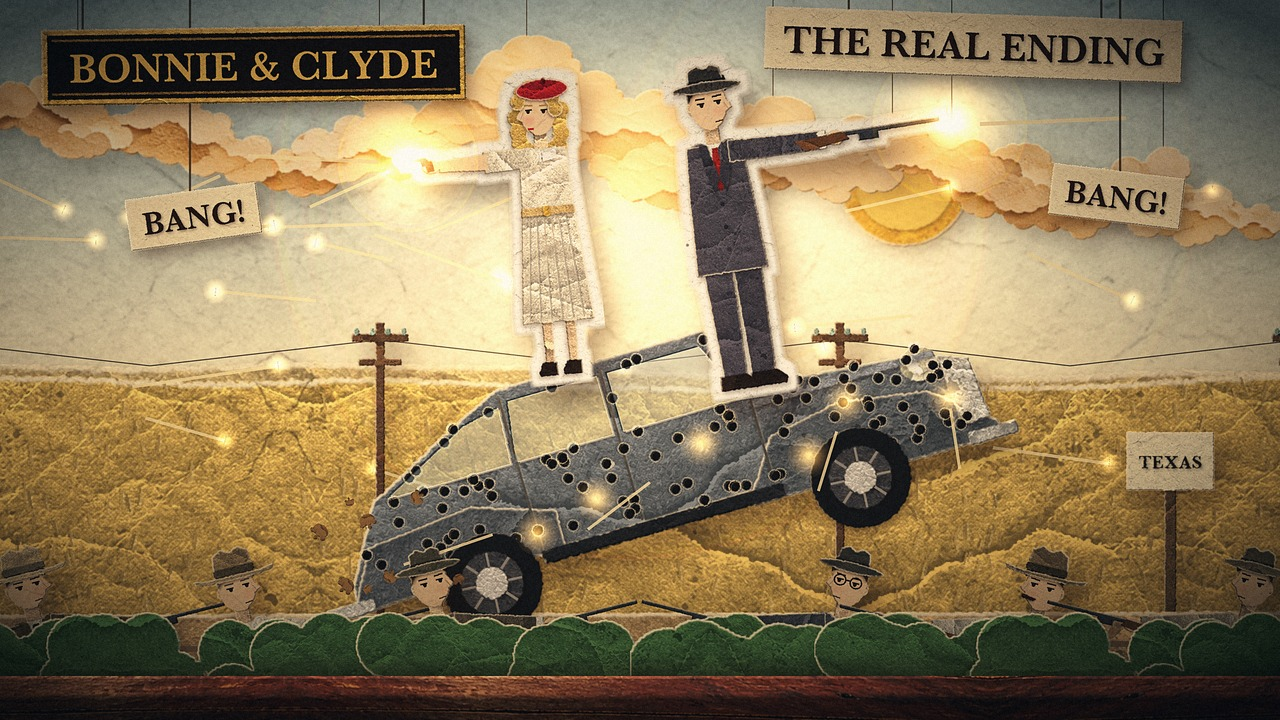
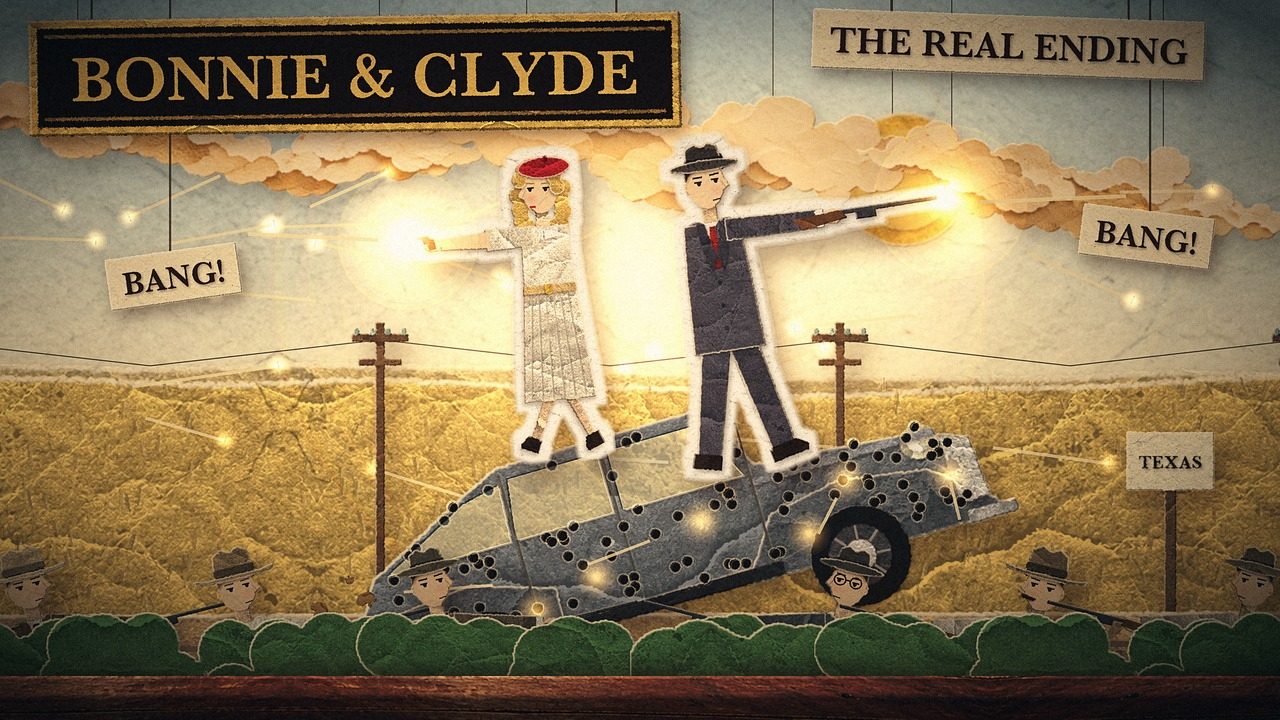
Bonnie i Clyde, miniaturka D: Bonnie i Clyde w rozkroku, duży szyld z tytułem, auto niżej (tylne koło w krzakach)
Reżyser 24.11: „zrób ich w rozkroku, Bonnie i Clyde'a, i dużo większy napis Bonnie i Clyde, a te auto trochę niżej, tak
żebyś schował te koła tylne”. Rozkrok tylko w miniaturce (_rozkrok: nogi rozcięte pod marynarką albo spódnicą i obrócone na
boki); arkusze lalek w filmie bez zmian.

diff --git a/output/bonnie-i-clyde/miniatura.py b/output/bonnie-i-clyde/miniatura.py
@@ -56,11 +56,38 @@ K_TAB = papier.Q  # tabliczki i szyld: w 4K trzykrotnie
 BIALY = (252, 250, 244)
 
 
+def _rozkrok(body, s, ang):
+    """Korpus lalki z nogami w rozkroku: nogi (od dołu marynarki albo spódnicy) rozcięte w kroku i obrócone na boki o ang
+    stopni wokół bioder; góra kładzie się na wierzch, więc szew pod biodrami nie widać. Tylko do miniaturki — arkusze lalek
+    w filmie zostają z nogami razem."""
+    from PIL import Image as _I
+    W_, H_ = body.size
+    cx = W_ / 2
+    sy = int((566 if s["kobieta"] else 452) + s["nogi"])
+    out = _I.new("RGBA", body.size, (0, 0, 0, 0))
+    for strona, kat in ((-1, -ang), (1, ang)):
+        noga = _I.new("RGBA", body.size, (0, 0, 0, 0))
+        x0, x1 = (0, int(cx)) if strona < 0 else (int(cx), W_)
+        noga.paste(body.crop((x0, sy, x1, H_)), (x0, sy))
+        out.alpha_composite(noga.rotate(kat, resample=_I.BICUBIC, center=(cx + strona * 26, sy)))
+    gora = _I.new("RGBA", body.size, (0, 0, 0, 0))
+    gora.paste(body.crop((0, 0, W_, sy + 8)), (0, 0))
+    out.alpha_composite(gora)
+    return out
+
+
 @lru_cache(None)
-def postac(key, rece=(20.0, 10.0), lean=0.0, rzecz=None):
-    """Lalka filmu w pozie, w kolorach (zestaw_bc.sylwetka(kolor=True)) — jeden wycinek, który dostaje biały obrys."""
-    return Sprite(J.sylwetka(key, rece=rece, lean=lean, rzecz=rzecz, kolor=True), f"miniatura-{key}-{rece}-{lean}-{rzecz}", rim=2,
-                  clean=False)
+def postac(key, rece=(20.0, 10.0), lean=0.0, rzecz=None, rozkrok=0.0):
+    """Lalka filmu w pozie, w kolorach (zestaw_bc.sylwetka(kolor=True)) — jeden wycinek, który dostaje biały obrys.
+    rozkrok — kąt nóg na boki (reżyser 24.11: „zrób ich w rozkroku, Bonnie i Clyde'a”)."""
+    korpus = J._korpus_img
+    if rozkrok:
+        J._korpus_img = lambda sp, seed_spec=None: _rozkrok(korpus(sp, seed_spec), sp, rozkrok)
+    try:
+        img = J.sylwetka(key, rece=rece, lean=lean, rzecz=rzecz, kolor=True)
+    finally:
+        J._korpus_img = korpus
+    return Sprite(img, f"miniatura-{key}-{rece}-{lean}-{rzecz}-{rozkrok}", rim=2, clean=False)
 
 
 def obrys(st, spr, x, y, h, p=P.lalki + 0.01, anchor=(0.5, 1.0), gruby=9, **kw):
@@ -174,17 +201,17 @@ def strzal(st, x, y, kierunek, p, wielkosc=1.0):
     st.line([(x + kierunek * 30, y), (x + kierunek * 160 * wielkosc, y - 6)], p, width=4, color=(255, 236, 190), alpha=0.8)
 
 
-def kotwica_tulowia(key, spr):
+def kotwica_tulowia(key, spr, rozkrok=0.0):
     """Kotwica x środka tułowia w wycinku postaci z wyciągniętą ręką (wycinek jest przycięty do całej sylwetki, więc jego
     środek leży w stronę ręki): szerokość lalki z rękami w dół to tułów, który zaczyna się przy lewej krawędzi."""
-    wn = J.sylwetka(key, rece=(0.0, 0.0), kolor=True).size[0]
+    wn = postac(key, rece=(0.0, 0.0), rozkrok=rozkrok).w
     return (wn / 2) / spr.w
 
 
-def stoi(st, key, x, y, h, p, rece, rzecz, flip=1.0, rot=0.0, gruby=9):
+def stoi(st, key, x, y, h, p, rece, rzecz, flip=1.0, rot=0.0, gruby=9, rozkrok=0.0):
     """Postać z białym obrysem, która stoi stopami w (x, y) ekranu niezależnie od wyciągniętej ręki."""
-    spr = postac(key, rece=rece, rzecz=rzecz)
-    ax = kotwica_tulowia(key, spr)
+    spr = postac(key, rece=rece, rzecz=rzecz, rozkrok=rozkrok)
+    ax = kotwica_tulowia(key, spr, rozkrok)
     M0.poloz_obrys(st, spr, x, y, p, h, (ax if flip > 0 else ax, 1.0), kolor=BIALY, gruby=gruby, k=max(1.0, papier.Q), sx=flip, rot=rot)
 
 
@@ -229,8 +256,9 @@ def scena_d():
     # Bonnie na opadającym dachu, Clyde na przedniej szybie z jedną nogą na masce (stopy z geometrii auta)
     bx, by = na_aucie(*STOPY_D[0])
     kx, ky = na_aucie(*STOPY_D[1])
-    stoi(st, "bonnie_slub_beret", bx, by + 4, 300, P.auta - 0.005, (90.0, 10.0), ("rewolwer", 40, (0.3, 0.75)), flip=-1, rot=ROT_AUTA * 0.35)
-    stoi(st, "clyde", kx, ky + 4, 330, P.auta - 0.004, (88.0, 10.0), ("karabin", 50, (0.3, 0.55)), rot=ROT_AUTA * 0.55)
+    stoi(st, "bonnie_slub_beret", bx, by + 4, 300, P.auta - 0.005, (90.0, 10.0), ("rewolwer", 40, (0.3, 0.75)), flip=-1, rot=ROT_AUTA * 0.35,
+         rozkrok=ROZKROK[0])
+    stoi(st, "clyde", kx, ky + 4, 330, P.auta - 0.004, (88.0, 10.0), ("karabin", 50, (0.3, 0.55)), rot=ROT_AUTA * 0.55, rozkrok=ROZKROK[1])
     for (sx_, sy_, kier, wk) in STRZALY_D:
         strzal(st, sx_, sy_, kier, P.auta, wk)
     # kule z krzaków w stronę auta (smugi od łowców ku karoserii)
@@ -247,10 +275,10 @@ def scena_d():
         M0.poloz(st, spr, x, 838, P.lalki + 0.02 + 0.001 * n, h=300, anchor=(ax, 1.0), sx=fl, rot=-14 * fl, tint=(0.82, 0.82, 0.8))
     for n, x in enumerate((20, 175, 330, 485, 640, 795, 950, 1105, 1260)):
         M0.poloz(st, J.krzak(n % 6), x, 728, P.lalki + 0.03 + 0.001 * n, h=118, anchor=(0.5, 1.0))
-    tab(st, "THE REAL ENDING", 975, 12, 66, rot=2)
-    tab(st, "BANG!", 190, 190, 54, rot=-8, xs=(0.5,))
-    tab(st, "BANG!", 1120, 170, 54, rot=7, xs=(0.5,))
-    szyld(st)
+    tab(st, "THE REAL ENDING", 1010, 14, 62, rot=2)
+    tab(st, "BANG!", 170, 250, 54, rot=-8, xs=(0.5,))
+    tab(st, "BANG!", 1150, 210, 54, rot=7, xs=(0.5,))
+    szyld(st, x=26, y=14, h=SZYLD_D, maxw=760)  # reżyser 24.11: „dużo większy napis Bonnie i Clyde”
     st.grade = (1.05, 0.98, 0.9)
     return st
 
@@ -260,9 +288,11 @@ def lerp_(a, b, f):
 
 
 ROT_AUTA = -16  # przód auta w górę (tył w rowie)
-AUTO_D = (640, 440, 300)  # środek auta na ekranie i jego wysokość
+AUTO_D = (640, 518, 300)  # środek auta na ekranie i jego wysokość; nisko: tylne koło chowa się w krzakach (reżyser 24.11)
 STOPY_D = ((385, 72), (598, 150))  # stopy na arkuszu Forda: Bonnie na dachu, Clyde na dole przedniej szyby, przy masce
-STRZALY_D = ((408, 162, -1, 1.0), (950, 124, 1, 1.1))  # (x, y, kierunek, wielkość) błysków z końców luf
+STRZALY_D = ((408, 240, -1, 1.0), (950, 202, 1, 1.1))  # (x, y, kierunek, wielkość) błysków z końców luf
+ROZKROK = (24.0, 13.0)  # kąt nóg na boki: Bonnie (spódnica), Clyde
+SZYLD_D = 120  # wysokość szyldu z tytułem (w C i A–B 78)
 LOWCY_MIN = (("hamer", ""), ("gault", ""), ("alcorn", ""), ("hinton", ""), ("jordan", ""), ("oakley", ""))
 
 
